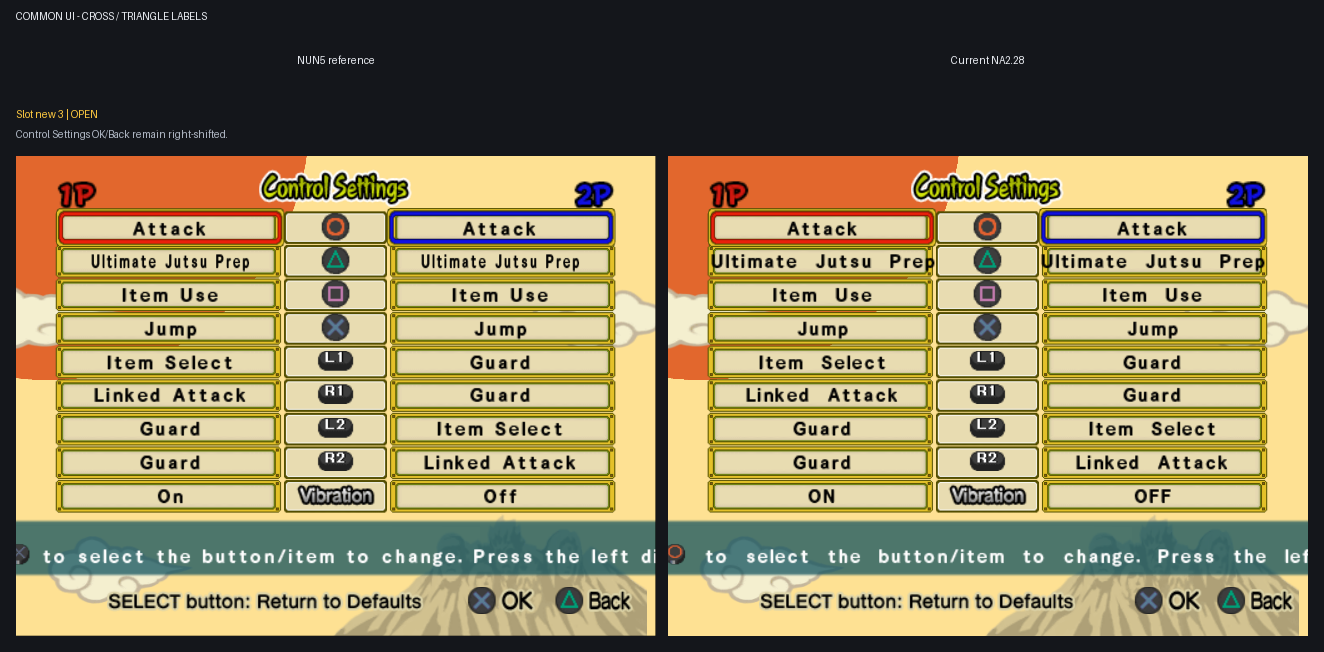
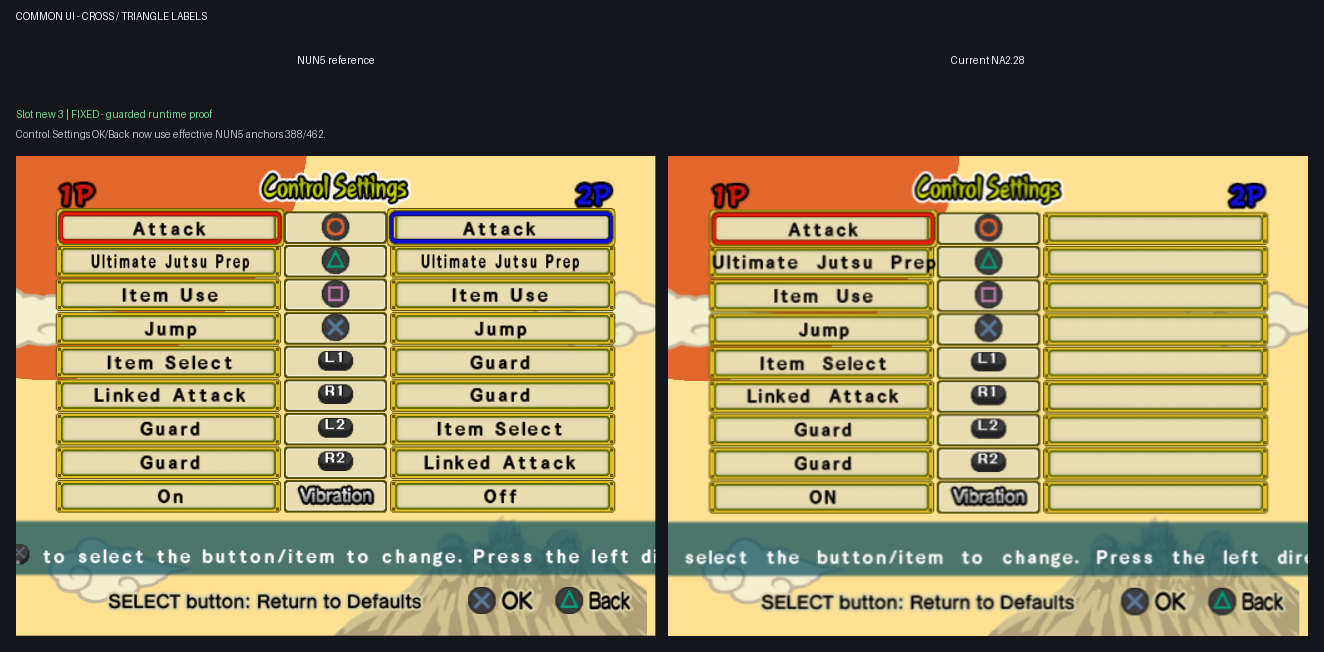
[UI Translation] Align Control Settings prompts

Changed region(s): [[0.4955, 0.2454, 0.9909, 0.9509], [0.031, 0.1534, 0.2477, 0.2147]]

diff --git a/na2_patcher/tests/test_texture_patcher.py b/na2_patcher/tests/test_texture_patcher.py
@@ -1577,15 +1577,35 @@ class UiTextureTests(unittest.TestCase):
                 "UI-ELF-009-04",
                 "UI-ELF-009-05",
                 "UI-ELF-009-06",
+                "UI-ELF-009-07",
+                "UI-ELF-009-08",
             ],
         )
         self.assertEqual(
             [item.operation for item in edits],
-            ["copy", "copy", "copy", "copy", "replace", "replace"],
+            [
+                "copy",
+                "copy",
+                "copy",
+                "copy",
+                "replace",
+                "replace",
+                "replace",
+                "replace",
+            ],
         )
         self.assertEqual(
             [item.destination_offset for item in edits],
-            [0x288DA4, 0x288DC8, 0x28A5B8, 0x28A5DC, 0x28A568, 0x28A58C],
+            [
+                0x288DA4,
+                0x288DC8,
+                0x28A5B8,
+                0x28A5DC,
+                0x28A568,
+                0x28A58C,
+                0x288D5C,
+                0x288D80,
+            ],
         )
         self.assertEqual(
             [item.expected_hex for item in edits],
@@ -1596,23 +1616,52 @@ class UiTextureTests(unittest.TestCase):
                 "6643023C",
                 "C843023C",
                 "EB43023C",
+                "C843023C",
+                "EB43023C",
             ],
         )
         self.assertEqual(
             [item.source_target_id for item in edits],
-            ["nun5_elf", "nun5_elf", "nun5_elf", "nun5_elf", "", ""],
+            ["nun5_elf", "nun5_elf", "nun5_elf", "nun5_elf", "", "", "", ""],
         )
         self.assertEqual(
             [item.source_offset for item in edits],
-            [0x29A704, 0x29A72C, 0x29BF68, 0x29BF90, None, None],
+            [
+                0x29A704,
+                0x29A72C,
+                0x29BF68,
+                0x29BF90,
+                None,
+                None,
+                None,
+                None,
+            ],
         )
         self.assertEqual(
             [item.source_expected_hex for item in edits],
-            ["4843023C", "4843023C", "4843023C", "4843023C", "", ""],
+            [
+                "4843023C",
+                "4843023C",
+                "4843023C",
+                "4843023C",
+                "",
+                "",
+                "",
+                "",
+            ],
         )
         self.assertEqual(
             [item.replacement_hex for item in edits],
-            ["", "", "", "", "C243023C", "E743023C"],
+            [
+                "",
+                "",
+                "",
+                "",
+                "C243023C",
+                "E743023C",
+                "C243023C",
+                "E743023C",
+            ],
         )
 
     def test_collection_submenu_patch_uses_only_exact_nun5_records(self) -> None:

diff --git a/docs/knowledge/localization/ui/options.md b/docs/knowledge/localization/ui/options.md
@@ -125,20 +125,23 @@ NUN5 uses the same register and instruction positions but loads `200.0f` with
 `6643023C` instructions. This moves the two complete Select groups together by
 30 logical pixels while preserving their internal spacing.
 
-The later paired Music Settings state exposes the same function's OK and Back
-groups. NA2 loads nominal X=`400` and X=`470` directly at runtime/file
-addresses `0x0038A468`/`0x28A568` and
-`0x0038A48C`/`0x28A58C`. NUN5 loads the same nominal values at
-`0x0039BD78`/`0x29BEF8` and `0x0039BDAC`/`0x29BF2C`, then converts two signed
-regional globals and adds `-12` and `-8`. Its effective anchors are therefore
-X=`388` and X=`462`.
+Later paired Music Settings and Control Settings states expose the OK and Back
+groups in both homologous functions. NA2 loads nominal X=`400` and X=`470`
+directly at Music runtime/file addresses `0x0038A468`/`0x28A568` and
+`0x0038A48C`/`0x28A58C`, and at Controls addresses
+`0x00388C5C`/`0x288D5C` and `0x00388C80`/`0x288D80`. NUN5 loads the same
+nominal values in both homologs, then converts the same two signed regional
+globals and adds `-12` and `-8`. Its effective anchors are therefore X=`388`
+and X=`462` on both screens.
 
 The NUN5 GP-relative loads are not ABI-compatible with NA2. `UI-ELF-009`
-extends the already-owning Music footer patch with two authored same-register
-constants (`C243023C` and `E743023C`) rather than duplicating the renderer or
-copying unsafe global accesses. A guarded task-owned state changed only those
-two words and aligned the complete Cross/OK and Triangle/Back groups with the
-NUN5 reference.
+extends the already-owning shared footer patch with two authored same-register
+constants per function (`C243023C` and `E743023C`) rather than duplicating
+logic or copying unsafe global accesses. Each guarded task-owned state changed
+only its two function-local words and aligned the complete Cross/OK and
+Triangle/Back groups with the NUN5 reference. This proves shared geometry but
+separate call sites: the implementation belongs to one patch, while each
+resident renderer still needs its own guarded pair of constants.
 
 ## Mode Select footer
 

diff --git a/na2_patcher/features/localization/README.md b/na2_patcher/features/localization/README.md
@@ -1676,12 +1676,13 @@ at X=`230`. Their NUN5 homologs place both calls at X=`200`:
 `UI-ELF-009` copies all four exact NUN5 `lui v0,0x4348` anchor instructions
 over the corresponding guarded NA2 `lui v0,0x4366` instructions. The broad
 correction keeps each icon and legend paired, applies consistently to both
-screens, and leaves vertical placement and internal spacing unchanged. The
-Music renderer also loads nominal OK/Back X=`400`/`470` directly while its
-NUN5 homolog applies regional `-12`/`-8` offsets. Two authored same-register
-constants at `0x28A568`/`0x28A58C` reproduce the effective donor anchors
+screens, and leaves vertical placement and internal spacing unchanged. Both
+renderers also load nominal OK/Back X=`400`/`470` directly while their NUN5
+homologs apply the same regional `-12`/`-8` offsets. Two authored
+same-register constants in each renderer reproduce the effective donor anchors
 X=`388`/`462` without copying ABI-incompatible GP-relative loads. Guarded
-task-owned Music Options states reproduce the complete NUN5 footer placement.
+task-owned Music and Control Settings states reproduce both complete NUN5
+footer placements.
 The complete homolog mappings, reconstruction, runtime evidence, and rejected
 wrong-table probe are preserved in
 `docs/knowledge/localization/ui/options.md`.

diff --git a/docs/workstreams/ui_translation/epics/remaining_ui/README.md b/docs/workstreams/ui_translation/epics/remaining_ui/README.md
@@ -26,9 +26,10 @@ the right.
    resident Music footer patch with effective NUN5 OK/Back anchors and now
    matches its guarded proof. Newer paired slot 2 Collection Characters is
    confirmed fixed by the already-canonical shared HOME helper, with no new
-   binary edit. Newer paired slot 3 Control Settings still has right-shifted
-   OK/Back groups. Correct only the Cross and Triangle labels across the
-   preserved screens as one shared subtask.
+   binary edit. Newer paired slot 3 Control Settings extends the same
+   `UI-ELF-009` ownership at separate Controls call sites and matches the
+   guarded NUN5 proof. The Cross/Triangle-label batch is implemented across
+   every preserved pair and awaits user acceptance of the newest slot.
 
 ## Report grids
 
@@ -52,4 +53,4 @@ the right.
 
 ![Cross/Triangle labels, queued Collection Characters slot 2](10-cross-triangle-labels-new-slot2.png)
 
-![Cross/Triangle labels, queued Control Settings slot 3](11-cross-triangle-labels-new-slot3.png)
+![Cross/Triangle labels, fixed Control Settings slot 3](11-cross-triangle-labels-new-slot3.png)

diff --git a/docs/workstreams/ui_translation/plan.md b/docs/workstreams/ui_translation/plan.md
@@ -562,7 +562,9 @@ effective NUN5 OK/Back anchors X=`388`/`462`; its guarded task-owned render
 matches the reference. Newer paired slot-2 Collection Characters is a true
 reuse of the already-canonical `UI-ELF-008` HOME helper: the existing five
 guarded rows align its OK/Back groups with no new binary edit. Newer paired
-slot-3 Control Settings remains queued. The
+slot-3 Control Settings extends the same `UI-ELF-009` ownership at its separate
+renderer call sites with the same effective NUN5 anchors; its guarded
+task-owned render matches the reference. The
 earlier original Slot 2 failure of the `0x2E7E0` table/HOME helper remains
 evidence only that Collection root uses a separate renderer. The rejected
 rank-label Y-compensation trial and exact pixel/object evidence are preserved
